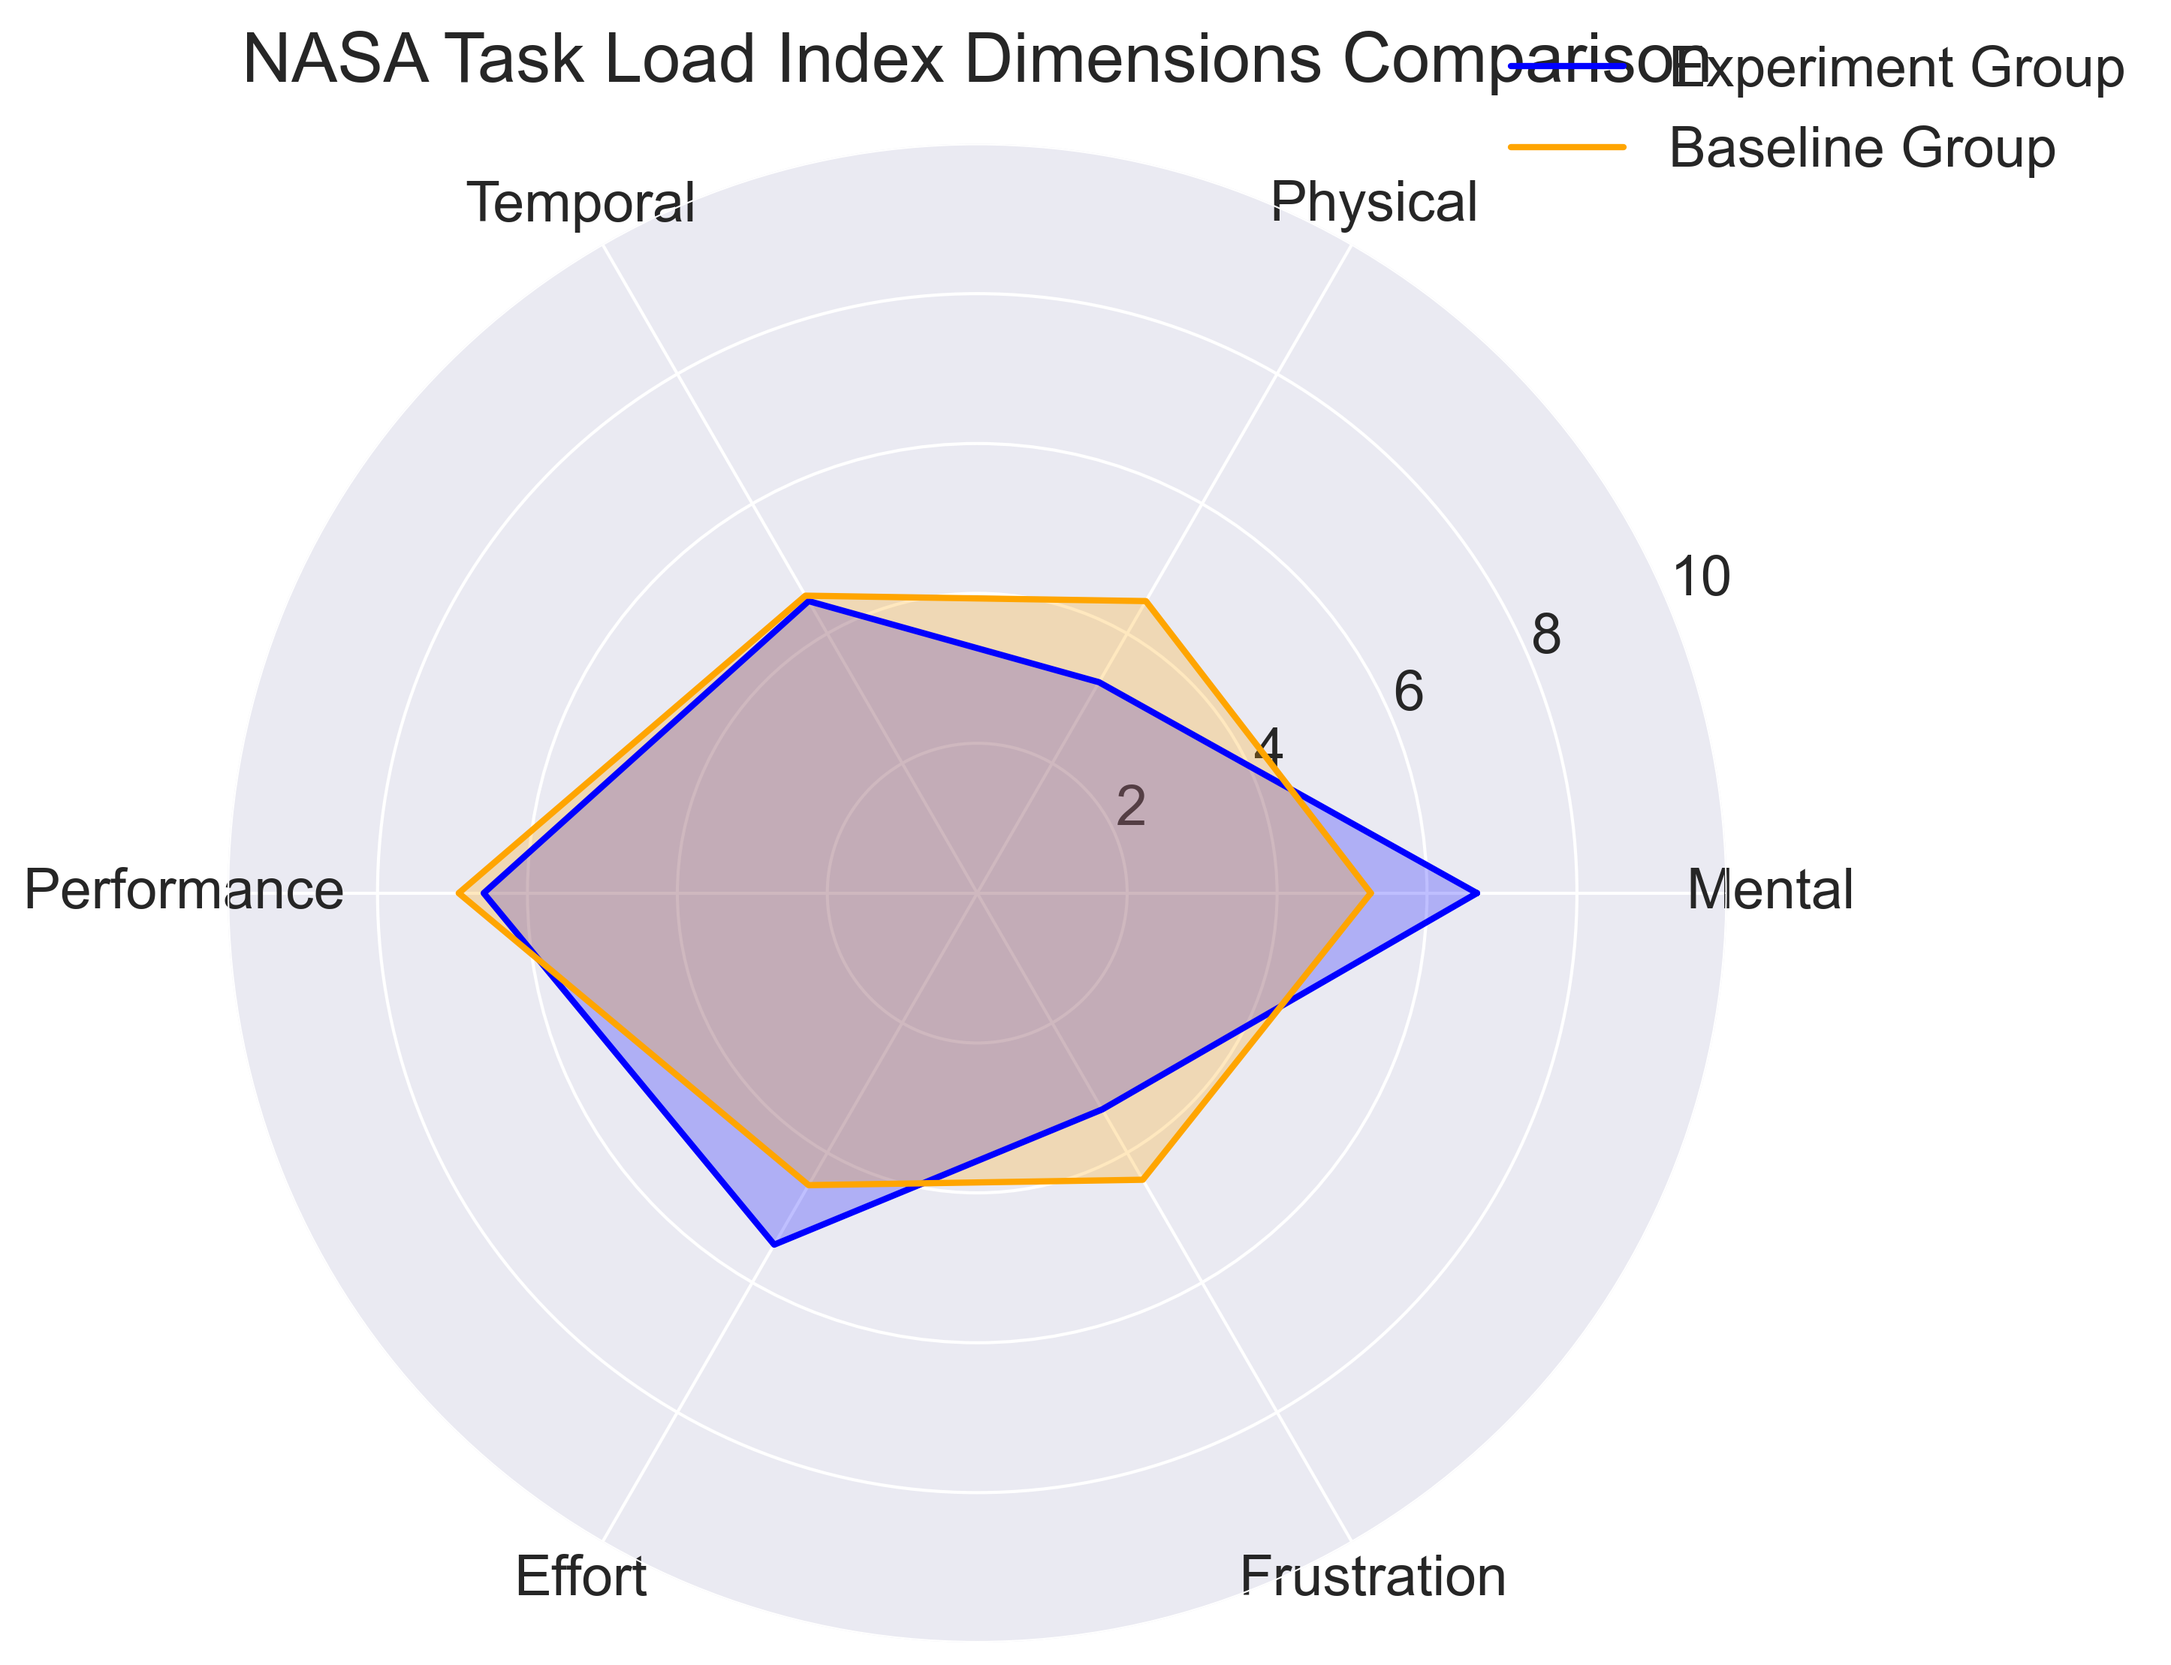
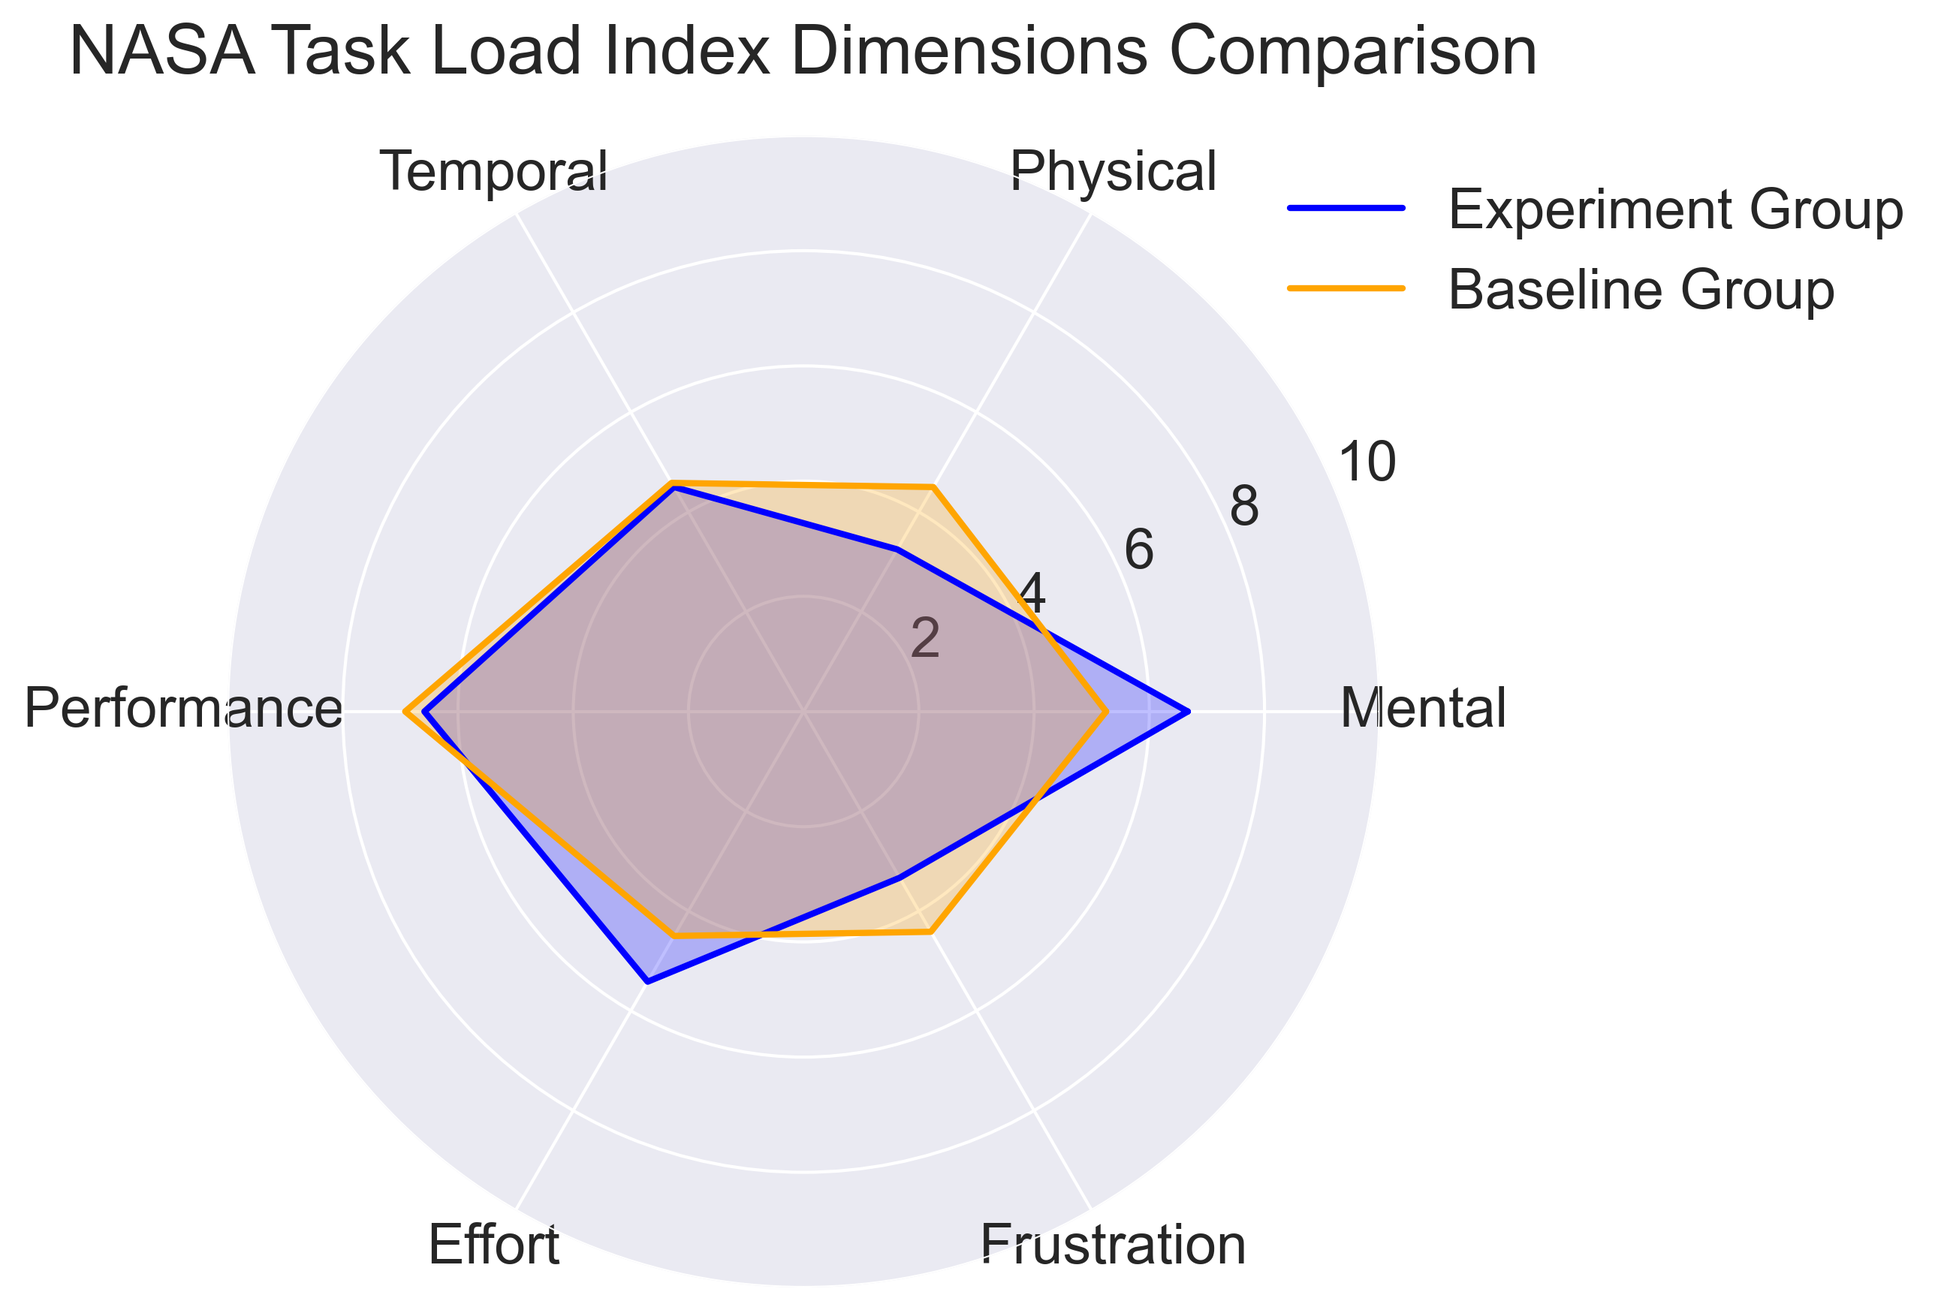
画图

diff --git a/Data_Analyze/questionnaire/create_visualizations.py b/Data_Analyze/questionnaire/create_visualizations.py
@@ -141,7 +141,7 @@ def create_radar_chart(data_dict):
     
     # Add title and legend
     ax.set_title('NASA Task Load Index Dimensions Comparison', size=22, pad=20)
-    ax.legend(loc='upper right', bbox_to_anchor=(1.3, 1.1), fontsize=18)
+    ax.legend(loc='upper right', bbox_to_anchor=(1.5, 1.0), fontsize=18)
     
     # Set y-labels
     ax.set_ylim(0, 10)
